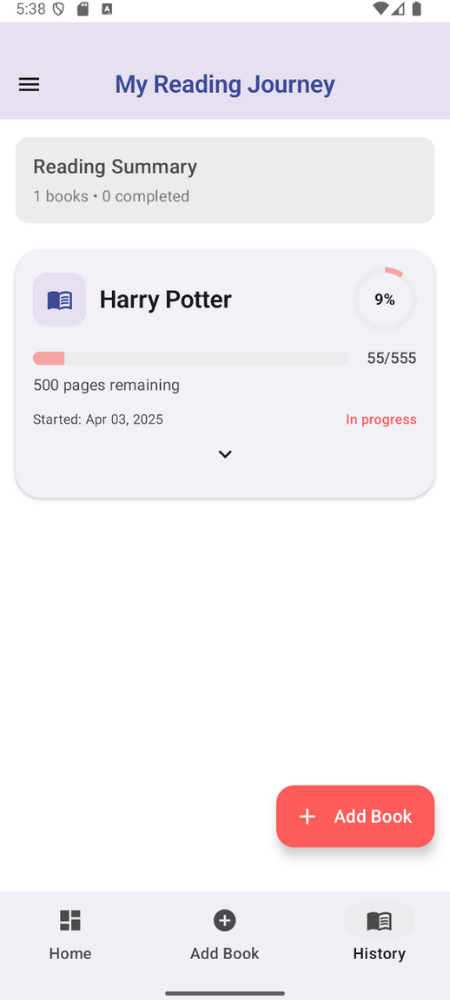
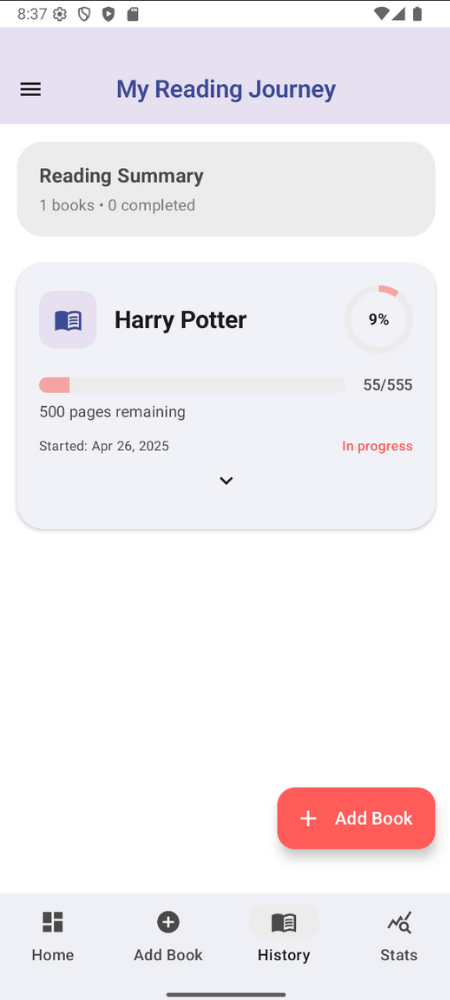
add: final Readme update

diff --git a/Readme.md b/Readme.md
@@ -102,7 +102,12 @@ Auth, Login, logout - Auth0
 
 ## Login
 
+![Login Screen](/assets/screen/screen-login2.png)
+
+## Login 2
+
 ![Login Screen](/assets/screen/screen-login.png)
+
 
 ## Home - No Book Added
 
@@ -114,11 +119,15 @@ Auth, Login, logout - Auth0
 
 ## Home - Book Added
 
-![Home Screen (no book added)](/assets/screen/screen-home-populated.png)
+![Home Screen (book added)](/assets/screen/screen-home-populated.png)
 
 ## History
 
-![Home Screen (no book added)](/assets/screen/screen-history.png)
+![History Screen](/assets/screen/screen-history.png)
+
+## Statistics
+
+![Statistics Screen](/assets/screen/screen-statistics.png)
 
 
 # Diagrams
